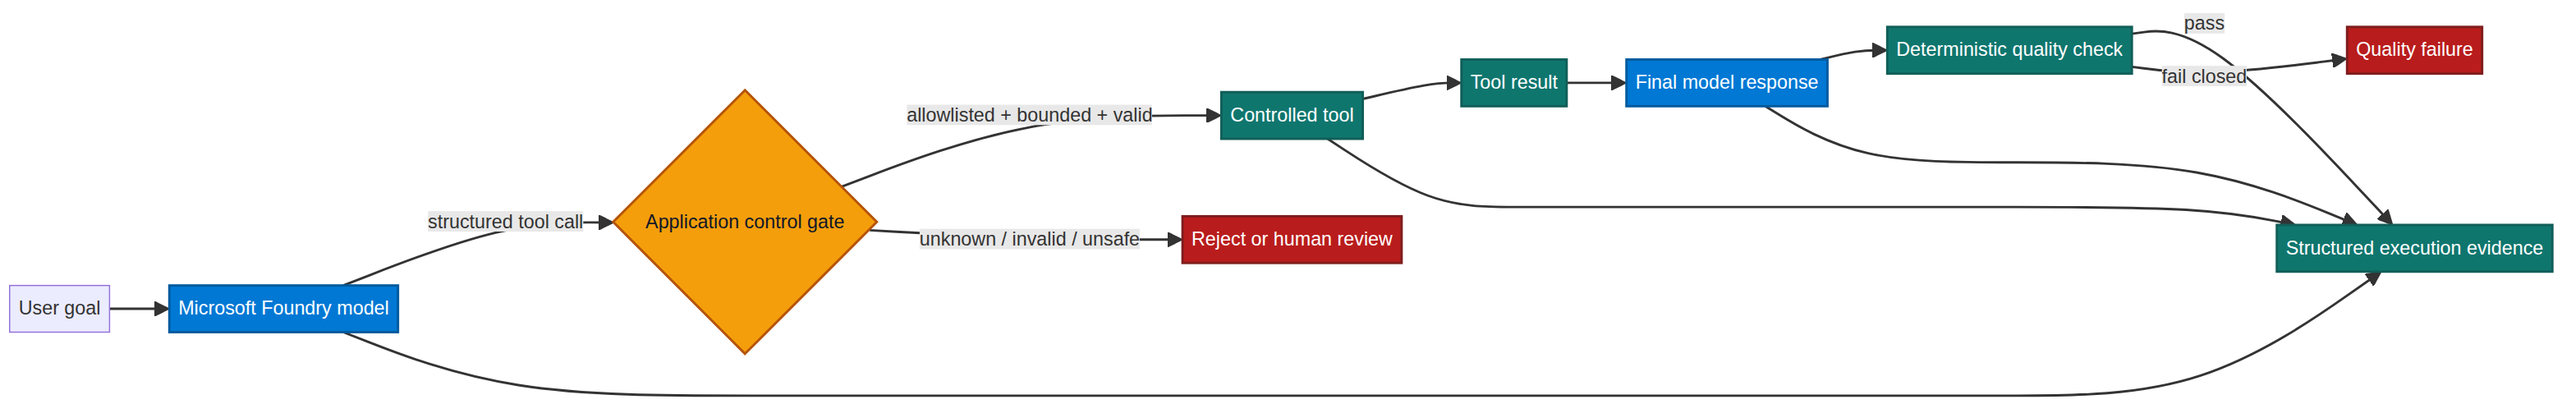
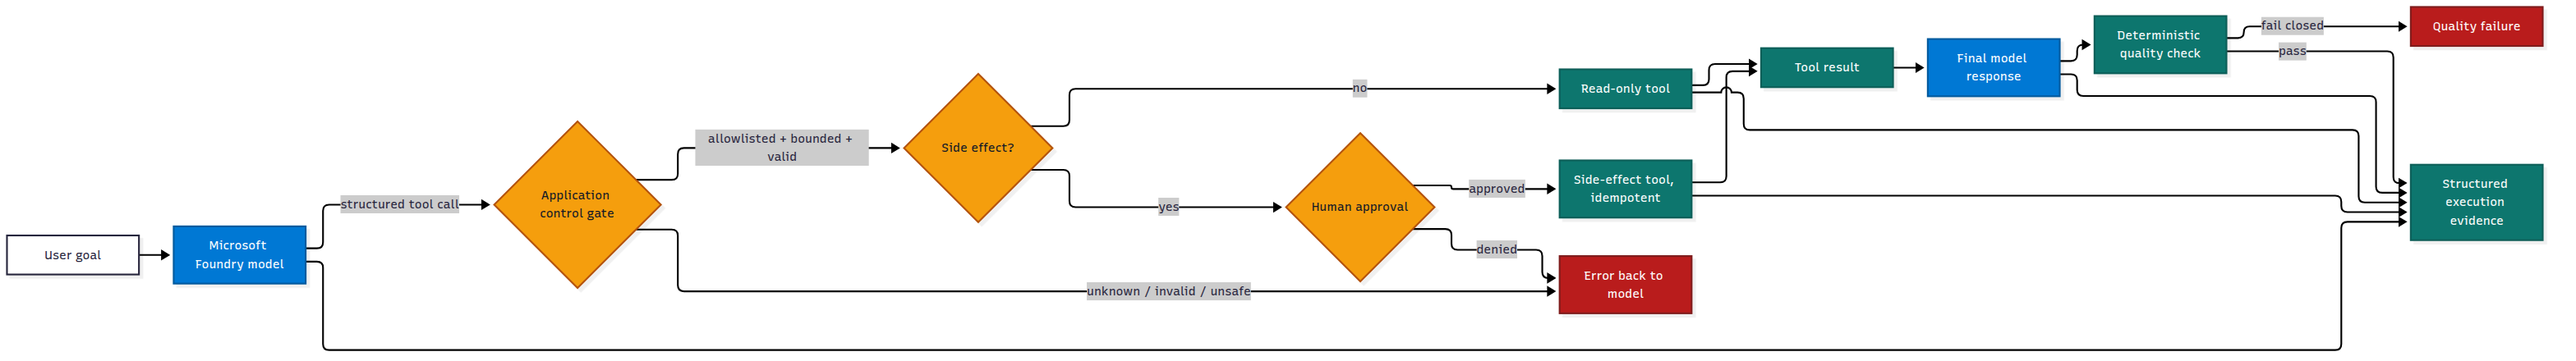
docs: update article, LinkedIn post and diagram for the model-chosen, approval-gated loop
Claude-Session: https://claude.ai/code/session_01SExxakmhyzBebtkp78o51H

diff --git a/docs/articles/production-grade-tool-calling.md b/docs/articles/production-grade-tool-calling.md
@@ -2,7 +2,7 @@
 
 **Canonical article:** `https://amrelsehemy.net/` *(publish this article on the website and replace with its final URL)*  
 **Implementation:** [Agentic Engineering Lab](https://github.com/AmrElsehemy/agentic-engineering-lab)  
-**Status:** Verified live against Microsoft Foundry and Azure Monitor on 3 October 2026
+**Status:** Verified live against Microsoft Foundry and Azure Monitor on 4 October 2026 (three consecutive passing evaluator runs)
 
 ## The claim
 
@@ -41,16 +41,22 @@ The Agentic Engineering Lab treats those questions as the actual unit of work. T
 
 ## The production boundary
 
-The first example uses a deliberately modest tool: `get_training_plan`.
+The first example has two deliberately modest tools: `get_training_plan`, which is read-only, and `save_plan`, which has a side effect.
 
-It does not send an email, modify a CRM record, place an order, or write to a database. That is intentional. A bounded read-like planning tool makes the control boundary visible without hiding it behind irreversible side effects.
+Neither touches a real business system. `save_plan` appends to a local file. That is intentional: it is the smallest possible side effect, which is enough to show where the decision to allow it must live.
+
+The model chooses whether to call a tool at all. An earlier version of this example forced the tool call, and the first live trace showed why that was not a real test: the model never decided anything, it only filled in arguments, and it filled in `"athlete": "Unknown"`, a value the user never gave. That passed schema validation. Schema-valid is not the same as grounded in what the user said.
 
 ```mermaid
 flowchart LR
     U[User goal] --> M[Foundry model]
     M -->|structured tool call| G{Application gate}
-    G -->|allowlisted + bounded + valid| T[Controlled tool]
-    G -->|unknown / invalid / unsafe| R[Reject or review]
+    G -->|allowlisted + bounded + valid| A{Side effect?}
+    G -->|unknown / invalid / unsafe| R[Error back to model]
+    A -->|no| T[Read-only tool]
+    A -->|yes| P{Human approval}
+    P -->|approved| T
+    P -->|denied| R
     T --> H[Tool result]
     H --> M2[Final model response]
     M2 --> Q[Deterministic consistency check]
@@ -68,7 +74,7 @@ The important part is the application gate. The model does not receive authority
 
 ## Control 1: allowlist the tool surface
 
-The tool surface is explicit. The example authorizes `get_training_plan` and rejects unknown tools before execution.
+The tool surface is explicit. The example authorizes `get_training_plan` and `save_plan` and rejects unknown tools before execution. The rejection is returned to the model as an error result, so the loop continues instead of crashing.
 
 That distinction matters because tool definitions are not a security policy. They are instructions to a model. The application still needs its own policy boundary.
 
@@ -82,10 +88,12 @@ This also creates a clean place to add policy later: tenant permissions, data cl
 
 The tool validates the arguments it receives:
 
-- `athlete` and `goal` must be present and non-empty.
-- `days_available` must be between 1 and 7.
+- Arguments must be a JSON object with exactly `goal` and `days_available`. Malformed JSON, extra keys and missing keys are rejected.
+- `days_available` must be an integer between 1 and 7. Booleans and numeric strings are rejected.
 - The goal is bounded before it reaches the model loop.
 - The result contains exactly the requested number of sessions.
+
+Rejected calls go back to the model as errors, never into the tool. The first live trace also changed the design: `athlete` was removed, `days_available` became required with no default, and the prompt tells the model to ask when the user has not given a number of days. Validation checks shape and range; it cannot prove a value came from the user. The live evaluator therefore has a scenario that gives no days and asserts that no tool runs.
 
 This is not about distrusting one model vendor. It is about treating model output as untrusted input, just as we would treat a request from a browser, webhook, or third-party integration.
 
@@ -93,24 +101,26 @@ The validation is also testable without a live model. That is a key design choic
 
 ## Control 3: enforce a tool-call budget
 
-The first example allows one tool call per turn. That is a small but meaningful operational control.
+The example allows one tool call per turn and at most four model calls per request, and the last call runs with tools disabled so the loop always ends in an answer. That is a small but meaningful operational control.
 
 Without a budget, a model can produce multiple calls, duplicate work, or create a surprising fan-out. A production system may eventually need a richer budget—per request, per user, per workflow, and per tool—but the principle is the same:
 
 > **Tool execution is a metered operation, not an unlimited side effect of generation.**
 
-The application checks the count before executing the calls.
+Extra calls in one turn are skipped and answered with an error, so the model can ask again if it still needs them.
 
 ## Control 4: make the handoff observable
 
 The execution emits structured events rather than relying on a single opaque log line:
 
 ```json
-{"event":"model_response","tool_calls":[{"name":"get_training_plan"}]}
-{"event":"tool_executed","tool":"get_training_plan","validated":true}
-{"event":"model_response","phase":"final","tool_calls":[]}
+{"event":"model_response","step":1,"tool_calls":[{"name":"get_training_plan","arguments":"<redacted>"}]}
+{"event":"tool_executed","tool":"get_training_plan","validated":true,"side_effect":false,"outcome":"ok"}
+{"event":"model_response","step":2,"tool_calls":[]}
 {"event":"quality_check","name":"training_plan_consistency","passed":true}
 ```
+
+Arguments, results and content are redacted unless local debugging is explicitly enabled. A trace that leaks the user's prompt is its own incident.
 
 In the live Microsoft Foundry run, the same loop was traced with Entra-authenticated Azure Monitor export:
 
@@ -153,6 +163,20 @@ The broader pattern is reusable:
 
 The exact invariant changes by domain. The architecture does not.
 
+## Control 6: require a human decision for side effects
+
+`save_plan` changes state, so it is not allowed to run on the model's say-so. The application asks a human, and the default answer is no: with no interactive terminal, the approval is denied.
+
+Three details matter more than the prompt itself:
+
+- **Validation happens before approval.** A human is never asked to approve a call that would have been rejected anyway.
+- **The model does not author what is persisted.** `save_plan` regenerates the plan from the validated arguments instead of storing model-written text.
+- **A denial is a result, not a crash.** It goes back to the model as an error, and in the live run the model told the user it could not save without approval. Nothing was written.
+
+The side effect is also idempotent: saving an identical plan twice writes one record. This came from the live runs, where repeated approved saves appended identical lines.
+
+Here is the part this example does not solve. The approval is a terminal prompt from whoever runs the script. There is no approver identity, no authorization model, and no durable audit log. That is the gap between a control point and a production control, and it is the next piece of work, not a footnote.
+
 ## Failure modes this boundary catches
 
 The value of the controls becomes clearer when the failure modes are made explicit.
@@ -164,6 +188,14 @@ The model may hallucinate a function name, follow an outdated instruction, or re
 ### The model supplies invalid arguments
 
 Structured tool calls improve shape, but they do not guarantee acceptable values. A model can request seven sessions when a particular workflow permits three, send an empty goal, or exceed a bounded input size. Validation keeps those values at the application boundary.
+
+### The model invents an argument
+
+The first live trace produced `"athlete": "Unknown"`. It was well-formed, in range, and not what the user said. The mitigation is layered and only partly deterministic: remove fields the model has no source for, make the rest required, instruct the model to ask, and test the behavior live. A prompt is a mitigation, not a guarantee, and the live evaluator reports outcomes, not grounding.
+
+### The model asks for a side effect nobody approved
+
+The call is validated, the human is asked, and a denial is returned as an error. The test that matters is the negative one: after a `no`, nothing is written.
 
 ### The model produces multiple calls
 
@@ -177,19 +209,11 @@ This is easy to miss because the response may sound helpful. The consistency gua
 
 The Azure Monitor check is separate from the model-quality check. If tracing cannot initialize, the live evaluator fails with an infrastructure diagnosis rather than pretending that observability exists. This distinction matters operationally: a system can produce a correct answer while still being unsafe to operate if no one can reconstruct what happened.
 
-## Why the first tool has no side effect
+## Why the side effect is small, and what is still missing
 
-It is tempting to demonstrate production seriousness by connecting an agent directly to a real business system. That often makes the example less rigorous. A side effect introduces authorization, idempotency, rollback, audit, retry, privacy, and reconciliation questions all at once. If those are not designed, the demo creates the appearance of autonomy without the controls required to contain it.
+It is tempting to demonstrate production seriousness by connecting an agent directly to a real business system. That often makes the example less rigorous. A real side effect introduces authorization, idempotency, rollback, audit, retry, privacy, and reconciliation questions all at once. If those are not designed, the demo creates the appearance of autonomy without the controls required to contain it.
 
-The first tool therefore produces an educational plan and nothing else. This gives the repository a clean progression:
-
-1. Prove the control boundary with a bounded tool.
-2. Add routing and explicit specialist contracts.
-3. Add human approval for actions that can change state.
-4. Add persistence, idempotency, retries, and recovery.
-5. Only then connect consequential business tools.
-
-The absence of a side effect is not a weakness in the example. It is an explicit risk decision.
+So the side effect here is a local file, chosen to make the approval boundary testable rather than to look impressive. What it covers: a default-deny human decision, validation before approval, application-owned persisted content, and idempotency. What it does not cover: who the approver is and whether they are entitled to approve, a durable audit trail, retries and recovery, and anything that cannot be undone. Those come before any consequential business tool.
 
 ## What an operating team can reuse
 
@@ -203,50 +227,57 @@ The most reusable artifact is not the training-plan domain. It is the contract a
 | What happened? | Structured model, tool, final, and quality events |
 | What must remain true? | Deterministic postcondition checks |
 | Can operators investigate? | Entra-authenticated Azure Monitor traces |
-| What happens with side effects? | Separate approval and authorization boundary |
+| What happens with side effects? | Default-deny human approval after validation; idempotent write |
 
 This is why the article is useful beyond a demo. It provides a small, inspectable template for a control plane that can grow with the domain. The business tool changes; the burden of proof around that tool remains.
 
 ## What was actually verified
 
-On 3 October 2026, the example was run against a Microsoft Foundry project using Microsoft Entra authentication and deployment `gpt-5.4-nano`.
+On 4 October 2026, the example was run against a Microsoft Foundry project using Microsoft Entra authentication and deployment `gpt-5.4-nano`, with Azure Monitor tracing configured.
 
-The live evaluator passed:
+The live evaluator ran three times in a row. Each run passed all four scenarios:
 
 ```text
-LIVE PASS forced tool selection
-LIVE PASS validated tool execution
-LIVE PASS final model response after tool result
-LIVE PASS final-answer consistency
-LIVE PASS observability configured: azure-monitor
-EXIT_CODE=0
+LIVE PASS tool used when a plan is requested
+LIVE PASS asks instead of inventing missing days
+LIVE PASS no tool for a general question
+LIVE PASS side effect denied without approval
 ```
 
-The run is evidence of a functioning controlled agent loop with Azure Monitor tracing. It is stronger than a screenshot of a fluent answer because the acceptance criteria are explicit and machine-checked.
+Three runs of a non-deterministic model is a small sample. It is evidence that the controls behave as designed on this deployment, not a pass rate.
 
-The repository also contains dependency-free checks. The current suite passes 10 checks covering validation, authorization, approval boundaries, session consistency, and final-answer consistency.
+The approval path was also exercised by hand. The model requested `get_training_plan`, then `save_plan`. Answering `n` produced an `approval` event with `approved:false`, a `denied` outcome, and no write. Answering `y` produced one write.
+
+The live runs also found problems the unit tests did not, and each one changed the code:
+
+1. A forced tool call let the model invent `athlete: "Unknown"` (see above).
+2. The first fix over-corrected: told never to guess, the model asked the user to confirm "3 day a week" instead of using it.
+3. My own evaluator passed the denied-side-effect scenario when the model never attempted the save. It now fails as inconclusive unless a denial actually happened.
+4. Repeated approved saves wrote duplicate records, which led to the idempotent write.
+
+The repository also has 24 unit tests that run without a model, using a scripted client, and 10 dependency-free control checks. Full record: [4 October evidence](../evidence/live-foundry-agent-trace-2026-10-04.md).
 
 ## What this proves—and what it does not
 
 ### It proves
 
-- The model can be forced to request a named structured tool.
-- The application validates and authorizes the tool call.
-- The controlled tool executes once within a bounded contract.
-- The result is handed back to the model before the final response.
+- The model chooses when to call a tool: a plan request calls one, a general question does not.
+- The application validates and authorizes each call and returns rejections to the model as errors.
+- A side effect ran only after an explicit human decision, and a denial wrote nothing.
+- At most one tool call runs per turn and the loop is bounded.
 - A deterministic postcondition can reject contradictory final prose.
-- The live loop can export structured telemetry through Azure Monitor using Entra credentials.
+- The live loop exports structured, redacted telemetry through Azure Monitor using Entra credentials.
 - The same control logic can be exercised without a live model.
 
 ### It does not prove
 
 - Production readiness for arbitrary tools or domains.
-- Correctness of every model answer.
-- Authorization for real business side effects.
-- Durable workflow state or distributed retries.
-- Idempotency under duplicate delivery.
+- Correctness of every model answer, or that every argument came from the user.
+- Who may approve an action: there is no approver identity or authorization model.
+- A durable audit log, retries, or recovery.
+- Behavior of other models, or under load.
 - Privacy, compliance, or data-retention approval.
-- Load, latency, cost, or disaster-recovery characteristics.
+- Latency, cost, or disaster-recovery characteristics.
 - That a model should be trusted with unrestricted autonomy.
 
 The limitation is part of the engineering claim. A credible production article should state the boundary of its evidence instead of converting one successful run into a universal readiness claim.
@@ -256,14 +287,16 @@ The limitation is part of the engineering claim. A credible production article s
 This pattern gives an engineering team a practical starting point for incrementally hardening agents:
 
 1. Start with one bounded tool.
-2. Put authorization in application code.
-3. Validate every argument.
-4. Limit execution budgets.
-5. Emit structured events.
-6. Define one or more deterministic invariants.
-7. Test the controls without a model.
-8. Run the same loop live with real identity and telemetry.
-9. Add side effects only after approval, idempotency, and recovery are designed.
+2. Let the model choose; do not force the call you are trying to test.
+3. Put authorization in application code.
+4. Validate every argument, and test what happens when the user did not provide one.
+5. Limit execution budgets.
+6. Gate side effects behind a default-deny human decision, after validation.
+7. Emit structured, redacted events.
+8. Define one or more deterministic invariants.
+9. Test the controls without a model.
+10. Run the same loop live with real identity and telemetry, and make the live evaluator able to fail.
+11. Add consequential side effects only after approver identity, audit, and recovery are designed.
 
 That sequence turns “agentic AI” from a prompt experiment into an inspectable system boundary.
 
@@ -279,7 +312,7 @@ It is:
 
 A production-grade agent is not defined by the number of tools it can call. It is defined by the quality of the boundaries around those tools.
 
-This first lab example makes one boundary concrete. The next examples will extend the same reasoning to routing, human approval, orchestration, and eventually side-effecting workflows.
+This first lab example makes one boundary concrete. The next work extends it to approver identity and audit, then routing, orchestration, and side-effecting workflows against real systems.
 
 ## Run it yourself
 
@@ -287,24 +320,25 @@ This first lab example makes one boundary concrete. The next examples will exten
 git clone https://github.com/AmrElsehemy/agentic-engineering-lab.git
 cd agentic-engineering-lab
 
-# Dependency-free demonstration
-python examples/01-single-agent-tool-calling/agent.py \
-  --demo --goal "prepare for a HYROX race"
+# Dependency-free demonstration (scripted model; save_plan is denied)
+python examples/01-single-agent-tool-calling/agent.py --demo
+python examples/01-single-agent-tool-calling/agent.py --demo --approve
 
-# Deterministic control checks
+# Unit tests and deterministic control checks
+python -m unittest discover -s examples/01-single-agent-tool-calling/tests
 python evaluate.py
 
 # Live Foundry evaluation, after external environment configuration
 python evaluate_live.py
 ```
 
-For the external environment setup and Azure Monitor configuration, see the example README. Do not commit credentials, connection strings, or sensitive prompts.
+Copy `.env.example` to `.env` (gitignored, loaded automatically) for the live run. For the setup and Azure Monitor configuration, see the example README. Do not commit credentials, connection strings, or sensitive prompts.
 
 ## Continue the investigation
 
 - [Single agent + controlled tool call](../../examples/01-single-agent-tool-calling/README.md)
 - [Evaluation rubric](../evidence/evaluation-rubric.md)
-- [Sanitized live trace](../evidence/live-foundry-agent-trace-2026-10-03.md)
+- [Sanitized live evidence, 4 October](../evidence/live-foundry-agent-trace-2026-10-04.md)
 - [Architecture map](../architecture-map.md)
 
 **Canonical home:** publish this article at `https://amrelsehemy.net/` and use the GitHub page as the inspectable implementation companion.

diff --git a/docs/articles/production-grade-tool-calling-linkedin.md b/docs/articles/production-grade-tool-calling-linkedin.md
@@ -10,7 +10,7 @@ The production problem is whether we can create a trustworthy boundary between p
 
 That is what I’ve been building in the Agentic Engineering Lab.
 
-The first example is intentionally small: one Microsoft Foundry model, one controlled tool, one final response.
+The first example is intentionally small: one Microsoft Foundry model, two tools (one read-only, one with a side effect), one final response.
 
 But the tool call is not trusted just because the model produced valid JSON.
 
@@ -18,24 +18,24 @@ The application:
 
 - allowlists the tool
 - validates every argument
-- bounds the number of calls
+- bounds the number of calls and the length of the loop
 - rejects unknown tools
-- keeps side effects out of the first boundary
+- requires a human decision before any side effect, and defaults to no
 - emits structured execution events
 - checks the final prose against structured tool truth
 - runs deterministic checks without a live model
 - exports the live trace through Entra-authenticated Azure Monitor
 
-The live evaluation passed:
+The live evaluation passed three runs in a row:
 
 ```text
-LIVE PASS forced tool selection
-LIVE PASS validated tool execution
-LIVE PASS final model response after tool result
-LIVE PASS final-answer consistency
-LIVE PASS observability configured: azure-monitor
-EXIT_CODE=0
+LIVE PASS tool used when a plan is requested
+LIVE PASS asks instead of inventing missing days
+LIVE PASS no tool for a general question
+LIVE PASS side effect denied without approval
 ```
+
+The live runs also caught things my tests missed: the model invented a value for a field the user never gave, my first fix made it over-cautious, and my own evaluator passed a scenario where nothing was actually tested. Each one changed the code.
 
 That does not mean the repository is “production-ready” for every use case.
 
